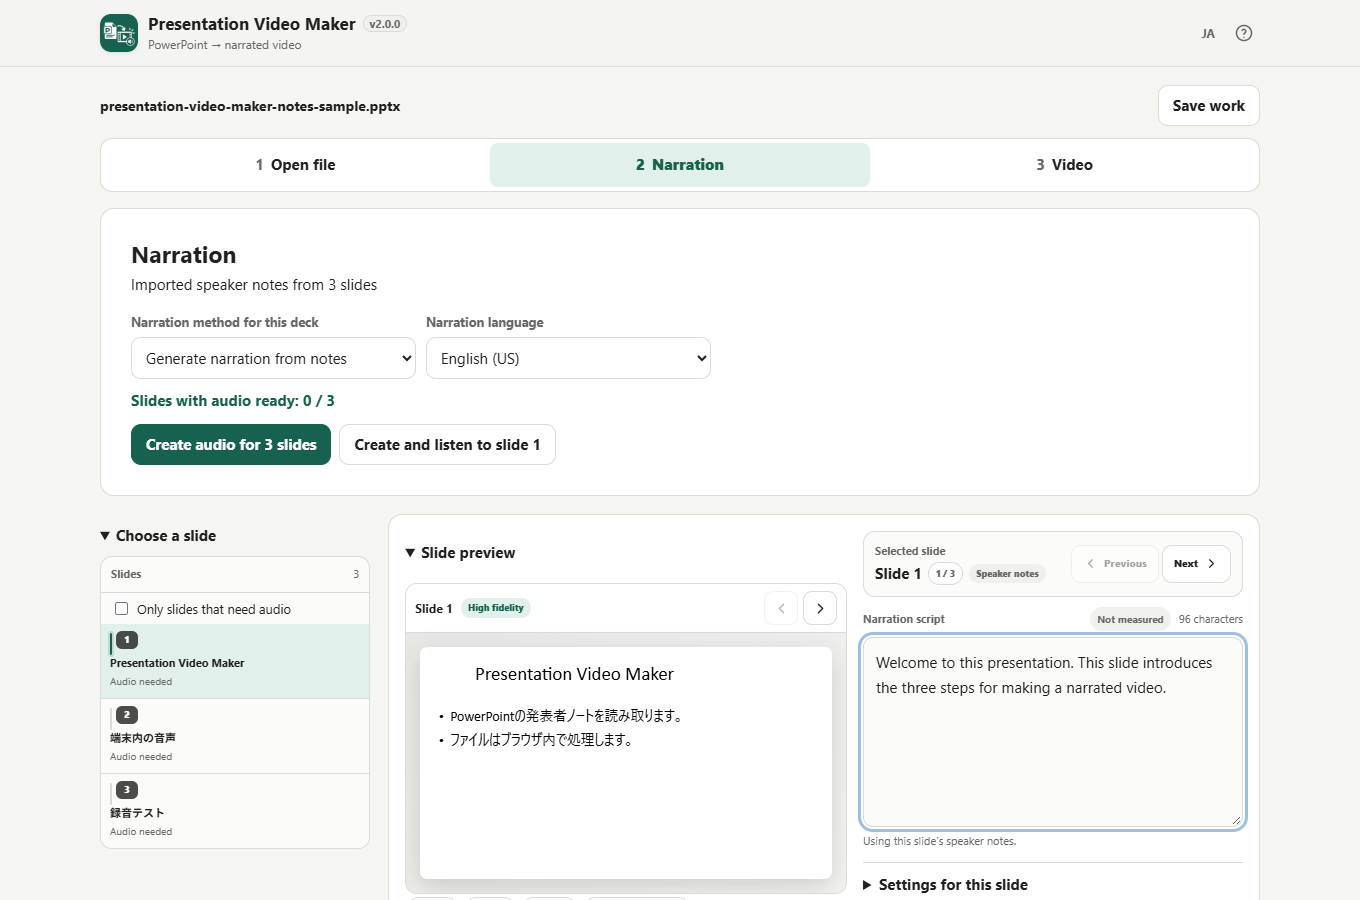
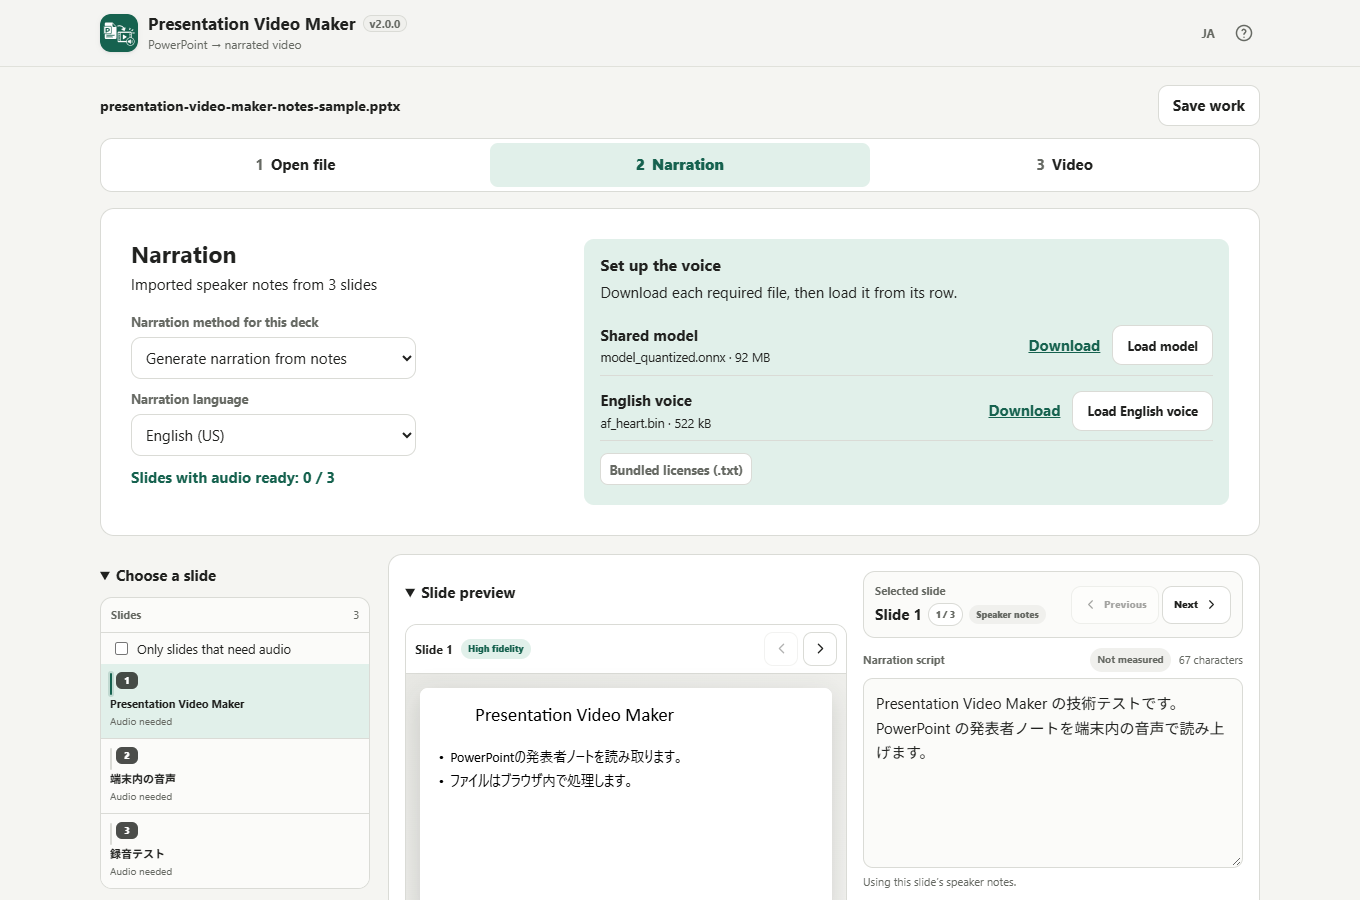
Default phones to Kokoro and separate model and voice pickers

diff --git a/src/index.template.html b/src/index.template.html
@@ -561,9 +561,13 @@
     .guide-model { max-width:730px; padding:14px 16px; margin-top:12px; border-radius:10px; background:var(--accent-soft); }
     .guide-model h3 { font-size:1rem; margin:0 0 4px; }
     .guide-model ul { display:grid; gap:5px; list-style:none; padding:0; margin:12px 0; }
-    .guide-model li { display:grid; grid-template-columns:minmax(7rem,1fr) minmax(0,1fr) auto; gap:8px; align-items:center; padding:5px 0; border-bottom:1px solid var(--line); }
+    .guide-model li { display:grid; grid-template-columns:minmax(0,1fr) auto; gap:8px 12px; align-items:center; padding:8px 0; border-bottom:1px solid var(--line); }
+    .guide-model-name { display:grid; gap:2px; min-width:0; }
     .guide-model small { overflow-wrap:anywhere; }
+    .guide-model-actions { display:flex; flex-wrap:wrap; align-items:center; gap:8px 12px; }
+    .guide-model-actions .button { min-height:40px; font-size:.8rem; }
     .guide-model a { color:var(--accent); font-weight:700; }
+    .guide-model .guide-file-ready { color:var(--accent); font-size:.8rem; }
     .guide-model .guide-file-status { margin-top:6px; font-size:.88rem; }
     .guide-stage .field-label,.guide-stage .text-button,.guide-export .video-export-summary span,.guide-export .range-head { font-size:.8rem; }
     @media (min-width:931px) {
@@ -607,8 +611,8 @@
       .guide-editor,.guide-slide { grid-template-columns:minmax(0,1fr); gap:10px; }
       .guide-slide { padding:12px; }
       .guide-model { padding:12px; }
-      .guide-model li { grid-template-columns:minmax(0,1fr) auto; }
-      .guide-model li small { grid-row:2; grid-column:1 / -1; }
+      .guide-model li { grid-template-columns:minmax(0,1fr); }
+      .guide-model-actions .button { min-height:44px; }
       .guide-main-actions .button { min-height:44px; }
       .guide-import .drop-zone { min-height:176px; }
       .guide-import .guide-drop-label { display:none; }
@@ -711,11 +715,38 @@
           </div>
           <div id="guideModelSetup" class="guide-model" hidden>
             <h3 data-i18n="guideModelTitle">声の準備</h3>
-            <p data-i18n="guideModelSteps">必要なファイルをダウンロードしてから、保存したファイルをこのアプリで選びます。</p>
-            <ul id="guideModelFiles"></ul>
-            <div class="button-row"><button type="button" class="button primary" id="localTtsChoose" data-i18n="guideModelChoose">モデルと声を選ぶ</button><button class="text-button" type="button" id="localTtsNotices" data-i18n="localNotices">同梱ライセンス</button></div>
+            <p data-i18n="guideModelSteps">必要なファイルをダウンロードし、それぞれの行から読み込みます。</p>
+            <ul id="guideModelFiles">
+              <li data-model-file="model_quantized.onnx" hidden>
+                <div class="guide-model-name"><strong data-i18n="guideModel">共通モデル</strong><small>model_quantized.onnx · 92 MB</small></div>
+                <div class="guide-model-actions">
+                  <a href="https://huggingface.co/onnx-community/Kokoro-82M-v1.0-ONNX/resolve/1939ad2a8e416c0acfeecc08a694d14ef25f2231/onnx/model_quantized.onnx?download=true" target="_blank" rel="noopener noreferrer" data-i18n="guideDownload" data-i18n-aria-label="guideDownloadModel" aria-label="共通モデルをダウンロード">ダウンロード</a>
+                  <button class="button" type="button" data-load-local-file data-i18n="guideReadModel">モデルを読み込む</button>
+                  <strong class="guide-file-ready" data-local-ready data-i18n="guideFileReady" hidden>読み込み済み</strong>
+                </div>
+                <input type="file" data-local-file="model_quantized.onnx" accept=".onnx" hidden>
+              </li>
+              <li data-model-file="jf_alpha.bin" hidden>
+                <div class="guide-model-name"><strong data-i18n="guideJaVoice">日本語の声</strong><small>jf_alpha.bin · 522 kB</small></div>
+                <div class="guide-model-actions">
+                  <a href="https://huggingface.co/onnx-community/Kokoro-82M-v1.0-ONNX/resolve/1939ad2a8e416c0acfeecc08a694d14ef25f2231/voices/jf_alpha.bin?download=true" target="_blank" rel="noopener noreferrer" data-i18n="guideDownload" data-i18n-aria-label="guideDownloadJaVoice" aria-label="日本語の声をダウンロード">ダウンロード</a>
+                  <button class="button" type="button" data-load-local-file data-i18n="guideReadJaVoice">日本語の声を読み込む</button>
+                  <strong class="guide-file-ready" data-local-ready data-i18n="guideFileReady" hidden>読み込み済み</strong>
+                </div>
+                <input type="file" data-local-file="jf_alpha.bin" accept=".bin" hidden>
+              </li>
+              <li data-model-file="af_heart.bin" hidden>
+                <div class="guide-model-name"><strong data-i18n="guideEnVoice">英語の声</strong><small>af_heart.bin · 522 kB</small></div>
+                <div class="guide-model-actions">
+                  <a href="https://huggingface.co/onnx-community/Kokoro-82M-v1.0-ONNX/resolve/1939ad2a8e416c0acfeecc08a694d14ef25f2231/voices/af_heart.bin?download=true" target="_blank" rel="noopener noreferrer" data-i18n="guideDownload" data-i18n-aria-label="guideDownloadEnVoice" aria-label="英語の声をダウンロード">ダウンロード</a>
+                  <button class="button" type="button" data-load-local-file data-i18n="guideReadEnVoice">英語の声を読み込む</button>
+                  <strong class="guide-file-ready" data-local-ready data-i18n="guideFileReady" hidden>読み込み済み</strong>
+                </div>
+                <input type="file" data-local-file="af_heart.bin" accept=".bin" hidden>
+              </li>
+            </ul>
+            <button class="text-button" type="button" id="localTtsNotices" data-i18n="localNotices">同梱ライセンス</button>
             <p id="localTtsFileStatus" class="guide-file-status" role="status"></p>
-            <input type="file" id="localTtsFiles" accept=".onnx,.bin" multiple hidden>
           </div>
           <div class="button-row guide-main-actions">
             <button class="button primary" type="button" id="guidePrimary"></button>
@@ -1102,13 +1133,19 @@
         guideReadLanguage:['読み上げる言語','Narration language'],
         guideDeckMethod:['音声の作り方','Narration method for this deck'],
         guideModelTitle:['声の準備','Set up the voice'],
-        guideModelSteps:['必要なファイルをダウンロードしてから、保存したファイルをこのアプリで選びます。','Download the required files, then select them here.'],
-        guideModelChoose:['モデルと声を選ぶ','Select model and voice files'],
+        guideModelSteps:['必要なファイルをダウンロードし、それぞれの行から読み込みます。','Download each required file, then load it from its row.'],
         guideModel:['共通モデル','Shared model'],
         guideJaVoice:['日本語の声','Japanese voice'],
         guideEnVoice:['英語の声','English voice'],
-        guideFileReady:['選択済み','Selected'],
+        guideFileReady:['読み込み済み','Loaded'],
         guideDownload:['ダウンロード','Download'],
+        guideDownloadModel:['共通モデルをダウンロード','Download shared model'],
+        guideDownloadJaVoice:['日本語の声をダウンロード','Download Japanese voice'],
+        guideDownloadEnVoice:['英語の声をダウンロード','Download English voice'],
+        guideReadModel:['モデルを読み込む','Load model'],
+        guideReadJaVoice:['日本語の声を読み込む','Load Japanese voice'],
+        guideReadEnVoice:['英語の声を読み込む','Load English voice'],
+        guideWrongFile:['{file}はこの行のファイルと一致しません。{expected}を読み込んでください。','{file} does not match this row. Load {expected}.'],
         guidePickSlide:['スライドを選ぶ','Choose a slide'],
         guideFilter:['音声が必要なスライドだけ','Only slides that need audio'],
         guideNoIssues:['音声が必要なスライドはありません。','No slides need audio.'],
@@ -1829,29 +1866,34 @@
         $('#localTtsGenerate').disabled=projectOperationBusy()||!canUseMethod('local')||state.localChecking||!slide.enabled||!slide.script.trim();
         $('#localTtsGenerate').textContent=t(slide.recordingSource==='local'&&slide.recordingBlob?'guideRecreate':'localGenerate');
       }
-      async function selectLocalFiles(files) {
-        if(!files.length || state.localChecking || projectOperationBusy()) return;
-        const failed=[];
+      async function selectLocalFile(name,file) {
+        const expected=LOCAL_FILES[name];
+        if(!file||!expected||state.localChecking||projectOperationBusy()) return;
+        const wrongFile={key:'guideWrongFile',values:{file:file.name,expected:name}};
         state.localChecking=true;
         state.localFileMessage={key:'localVerifying'};
         renderGuidedNarration();
         try {
-          if(!window.crypto?.subtle) {
+          const subtle=window.crypto?.subtle;
+          if(!subtle) {
             state.localFileMessage={key:'localVerifyUnavailable'};
             return;
           }
-          for(const file of files) {
-            const name=file.name.toLowerCase(), expected=LOCAL_FILES[name];
-            if(!expected || file.size!==expected.size) { failed.push(file.name); continue; }
-            try {
-              const digest=await crypto.subtle.digest('SHA-256',await file.arrayBuffer());
-              const hash=Array.from(new Uint8Array(digest),byte=>byte.toString(16).padStart(2,'0')).join('');
-              if(hash===expected.sha256) state.localFiles.set(name,file);
-              else failed.push(file.name);
-            } catch { failed.push(file.name); }
+          if(file.size!==expected.size) {
+            state.localFileMessage=wrongFile;
+            return;
           }
-          state.localFileMessage=failed.length ? {key:'localInvalid',values:{files:failed.join(', ')}} : null;
-          if(!failed.length && state.localMessage?.key==='localNeedFiles') state.localMessage=null;
+          const digest=await subtle.digest('SHA-256',await file.arrayBuffer());
+          const hash=Array.from(new Uint8Array(digest),byte=>byte.toString(16).padStart(2,'0')).join('');
+          if(hash!==expected.sha256) {
+            state.localFileMessage=wrongFile;
+            return;
+          }
+          state.localFiles.set(name,file);
+          state.localFileMessage=null;
+          if(state.localMessage?.key==='localNeedFiles') state.localMessage=null;
+        } catch {
+          state.localFileMessage=wrongFile;
         } finally {
           state.localChecking=false;
           renderLocalControls(state.slides[state.selectedSlideIndex]);
@@ -2274,7 +2316,6 @@
         return method==='file';
       }
       function defaultDeckMethod(){
-        if(isSmartphoneMode()&&canUseMethod('mic')) return 'mic';
         return ['local','mic','file'].find(canUseMethod);
       }
       function guideSlideCount(key,count){
@@ -2308,37 +2349,19 @@
         }
       }
       function renderModelSetup(required){
-        const setup=$('#guideModelSetup');
-        setup.hidden=!required.size;
-        $('#localTtsChoose').disabled=projectOperationBusy()||state.localChecking;
-        $('#localTtsFileStatus').textContent=localMessageText(state.localFileMessage);
-        const list=$('#guideModelFiles');
-        const version=[language,...Array.from(required,name=>name+':'+state.localFiles.has(name))].join('|');
-        if(list.dataset.version===version) return;
-        list.dataset.version=version;
-        list.replaceChildren();
-        const base='https://huggingface.co/onnx-community/Kokoro-82M-v1.0-ONNX/resolve/1939ad2a8e416c0acfeecc08a694d14ef25f2231/';
-        for(const name of required){
-          const model=name==='model_quantized.onnx', ready=state.localFiles.has(name);
-          const label=t(model?'guideModel':name==='jf_alpha.bin'?'guideJaVoice':'guideEnVoice');
-          const filename=document.createElement('small');
-          filename.textContent=name;
-          const item=document.createElement('li');
-          item.append(label,filename);
-          if(ready){
-            const status=document.createElement('strong');
-            status.textContent=t('guideFileReady');
-            item.append(status);
-          }else{
-            const link=document.createElement('a');
-            link.href=base+(model?'onnx/':'voices/')+name+'?download=true';
-            link.target='_blank';
-            link.rel='noopener noreferrer';
-            link.textContent=t('guideDownload')+' · '+(model?'92 MB':'522 kB');
-            link.setAttribute('aria-label',label+' · '+link.textContent);
-            item.append(link);
-          }
-          list.append(item);
+        $('#guideModelSetup').hidden=!required.size;
+        const status=$('#localTtsFileStatus'), message=localMessageText(state.localFileMessage);
+        if(status.textContent!==message) status.textContent=message;
+        const busy=projectOperationBusy()||state.localChecking;
+        for(const row of $$('#guideModelFiles [data-model-file]')){
+          const name=row.dataset.modelFile;
+          const ready=state.localFiles.has(name);
+          row.hidden=!required.has(name);
+          const button=row.querySelector('[data-load-local-file]');
+          button.hidden=ready;
+          button.disabled=busy;
+          row.querySelector('a').hidden=ready;
+          row.querySelector('[data-local-ready]').hidden=!ready;
         }
       }
       function renderGuidedNarration(){
@@ -3071,12 +3094,13 @@
       function prepareSelectedLocal(){
         const index=state.selectedSlideIndex, slide=state.slides[index];
         if(!slide) return;
-        if(!missingLocalFiles(slide).length){
+        const missing=missingLocalFiles(slide);
+        if(!missing.length){
           generateLocalAudio();
         }else{
           state.guideSetupIndex=index;
           renderGuidedNarration();
-          focusGuideControl('#localTtsChoose');
+          focusGuideControl(`[data-model-file="${missing[0]}"] [data-load-local-file]`);
         }
       }
 
@@ -3161,11 +3185,22 @@
         updateNarrationDuration(slide);
         renderSceneRecordings();
       });
-      $('#localTtsChoose').addEventListener('click',()=>$('#localTtsFiles').click());
-      $('#localTtsFiles').addEventListener('change',event=>{
-        const files=Array.from(event.target.files);
-        event.target.value='';
-        selectLocalFiles(files);
+      $('#guideModelFiles').addEventListener('click',event=>{
+        const button=event.target.closest('[data-load-local-file]');
+        if(button) button.closest('[data-model-file]').querySelector('input').click();
+      });
+      $('#guideModelFiles').addEventListener('change',async event=>{
+        const input=event.target, name=input.dataset.localFile;
+        const file=input.files?.[0];
+        if(!name||!file) return;
+        const button=input.closest('[data-model-file]').querySelector('[data-load-local-file]');
+        const restoreFocus=document.activeElement===button;
+        input.value='';
+        await selectLocalFile(name,file);
+        if(!restoreFocus||state.guidePage!=='script'||![button,document.body].includes(document.activeElement)) return;
+        if(!button.hidden) button.focus();
+        else if(!$('#guideModelSetup').hidden) focusGuideControl('#guideModelFiles [data-model-file]:not([hidden]) [data-load-local-file]:not([hidden])');
+        else focusGuideControl(state.guideSetupIndex===state.selectedSlideIndex?'#localTtsGenerate':'#guidePrimary');
       });
       $('#localTtsNotices').addEventListener('click',()=>{
         const notice=$('#local-tts-notices');

diff --git a/APP_SPEC.md b/APP_SPEC.md
@@ -20,7 +20,7 @@ Version `1.3.0` keeps the tested v1.2.0 smartphone/project/narration behavior an
 ## 3. Primary flow
 
 1. **Open file.** Open a .pptx up to 150 MB. Import notes and use slide text as the draft when notes are absent. A .pvm opens in Narration or Video after restoration, depending on whether the audio is ready.
-2. **Narration.** Prepare the deck’s audio. Compatible desktop browsers default to local model narration with Japanese selected. Phones can select local model narration and default to the microphone where available. An environment with neither path defaults to audio files. Model setup lists the shared model and missing languages for the batch. Creating and listening to a sample produces the actual WAV for that slide.
+2. **Narration.** Prepare the deck’s audio. Compatible desktop and phone browsers default to local model narration with Japanese selected. Otherwise, the app defaults to microphone recording if supported, then to audio files. Model setup lists the shared model and voices needed for the batch with separate downloads and single-file pickers. Creating and listening to a sample produces the actual WAV for that slide.
 3. **Edit individual slides.** Choose a slide to edit its script or settings. Batch synthesis and batch computer-speech capture skip audio that is already usable for the selected method. An included reading slide with an empty script can appear without narration. Audio recorded through the microphone or selected from a file can be used with an empty script.
 4. **Video.** Show the output duration, included slide count and resolution. Link unmet audio requirements to the affected slide. Show progress, cancellation, preview and saving at the same location. Provide transition, BGM, subtitle and timeline controls under Finishing settings, and text exports under a separate disclosure.
 5. **Save work.** Store deck and individual audio methods as optional fields in the v2 manifest, alongside the existing actual method. Older projects restore their saved methods as explicit choices. Preserve source and model compatibility across reopening.
@@ -128,7 +128,7 @@ Defaults:
 - `postPadding`: 0.8 seconds;
 - `recordingStatus`: `pending`;
 - recording fields are empty/zero until capture succeeds;
-- new PPTX scenes default to `mic` on phones with recording support and `local` on supported desktop browsers. Loading an existing `.pvm` preserves its saved narration source.
+- new PPTX scenes default to `local` on supported phones and desktop browsers, then fall back to `mic` or `file`. Loading an existing `.pvm` preserves its saved narration source.
 
 The recorded Blob intentionally contains only a small technical lead/tail around speech. `recordingSpeechStartOffset` and `recordingSpeechEndOffset` identify the spoken region for video composition. User-configured pre/post padding is **not waited out during capture**; it remains timeline metadata.
 
@@ -391,7 +391,7 @@ Required for the current stable line:
 - local narration/BGM files remain local and are limited to 100 MB each;
 - Japanese/English UI works without horizontal page overflow at 360–390 px;
 - smartphone UI shows Open file / Narration / Video without horizontal overflow at 320–390 px;
-- new PPTX scenes default to microphone narration on detected smartphones while `.pvm` restore preserves saved sources;
+- new PPTX scenes default to Kokoro on compatible smartphones while `.pvm` restore preserves saved sources;
 - compatible phones can generate Japanese and English Kokoro audio and include it in MP4, while browser voice preview and desktop system-audio capture are presented separately;
 - smartphone video output defaults to 720p, shows a 1080p memory warning, uses progressive snapshot composition, and releases the FFmpeg runner after export;
 - smartphone video creation requests Wake Lock when available without making Wake Lock a hard requirement;

diff --git a/README.md b/README.md
@@ -10,7 +10,7 @@ A privacy-focused, single-HTML app for turning a PowerPoint (PPTX) deck into a n
 
 ## Generate Japanese and English narration from speaker notes
 
-Open a PowerPoint in a supported browser. On phones, choose **Generate narration from notes** under **Narration method for this deck**. Download the shared model and a voice, then open them with **Select model and voice files**.
+Open a PowerPoint in a supported browser. **Generate narration from notes** is selected for new decks on supported phones and desktop browsers. Download the shared model and the required voices, then load each file from its own row.
 
 | File | Used for |
 | --- | --- |
@@ -38,7 +38,7 @@ GitHub Pages delivers the initial HTML. After it loads, PPTX parsing, speaker-no
 - **Keep narration work editable** — Adjust scripts, include/exclude slides, before/after padding, voice, and speech rate, with stale-audio tracking when narration settings change.
 - **Preview PowerPoint with higher fidelity** — Use pinned `@aiden0z/pptx-renderer@1.2.4` for the main slide preview and `html2canvas@1.4.1` for origin-clean video snapshots.
 - **Create a finished MP4 locally** — Choose 720p or 1080p, Cut or Fade, burned-in subtitles, and optional local BGM. Supported browsers use accelerated WebCodecs export; other environments automatically keep the established MediaRecorder + FFmpeg WASM compatibility path.
-- **Smartphone workflow** — Smartphones use the Open file / Narration / Video workflow, default new slides to microphone recording, start video output at 720p, and stream slide snapshots during export to reduce peak memory.
+- **Smartphone workflow** — Smartphones use the Open file / Narration / Video workflow, default new slides to Kokoro where supported, start video output at 720p, and stream slide snapshots during export to reduce peak memory.
 - **Private, single-HTML operation** — Runtime libraries are embedded, the UI is Japanese/English, and the app keeps `connect-src 'none'` with no runtime CDN, analytics, telemetry, or cloud TTS API.
 
 ## Smartphone use

diff --git a/VERIFY_OFFLINE.md b/VERIFY_OFFLINE.md
@@ -11,7 +11,7 @@
 
 ## Local model narration
 
-For the local TTS path, save the pinned `model_quantized.onnx`, `jf_alpha.bin` and `af_heart.bin` from the in-app download links. With the browser offline, generate and listen to a Japanese slide, then generate the remaining English slide from the deck action, save the project, close the tab, and reopen the project. Export MP4 before selecting any model files again.
+For the local TTS path, save the pinned `model_quantized.onnx`, `jf_alpha.bin` and `af_heart.bin` from the in-app download links. With the browser offline, load the model and each voice from its own row, then generate and listen to a Japanese slide before generating the remaining English slide from the deck action, save the project, close the tab, and reopen the project. Export MP4 before selecting any model files again.
 
 The repeatable desktop test uses Playwright with Google Chrome and the checked-in three-slide deck. With Playwright available to Node, set the environment variable `PVM_KOKORO_DIR` to the directory with the three downloaded files and run `node scripts/local-tts.browser.cjs` from the repository root. Set `PVM_TEST_HTML` to exercise another standalone build. The test also runs a Pixel phone profile. It reopens a deck with one missing voice, checks that audio already generated on desktop remains identical, generates the remaining narration and exports an MP4. The script saves its projects, videos and subtitles in a temporary directory and prints the path.
 

diff --git a/docs/ARCHITECTURE.md b/docs/ARCHITECTURE.md
@@ -80,7 +80,7 @@ The smartphone workflow keeps the same local-only project and media pipeline but
 
 - Smartphone mode is selected from device/capability signals rather than changing the desktop workflow globally.
 - On-device `SpeechSynthesis` remains available for preview, but smartphone system-audio capture is not supported by this app. Compatible phones offer Kokoro synthesis alongside microphone and local-audio narration. The browser voice remains available as a sample where supported.
-- Newly loaded smartphone PPTX scenes default to microphone narration and video output defaults to 720p. Selecting 1080p remains possible but displays a memory-use warning.
+- New smartphone PPTX scenes default to Kokoro where supported, with microphone recording or audio files as fallbacks. Model and voice files have separate pickers and are verified for the selected slot. Video output defaults to 720p. Selecting 1080p remains possible but displays a memory-use warning.
 - Before smartphone video composition, the app terminates the Kokoro worker to release its model and WASM memory. The generated WAVs and selected file handles remain usable.
 - During smartphone video composition, slide snapshots are rasterized progressively and temporary Canvas backing stores are released as soon as they are no longer needed, reducing peak memory versus keeping all slide snapshots at once.
 - After smartphone MP4 export the FFmpeg WASM runner is disposed so its memory can be reclaimed.
